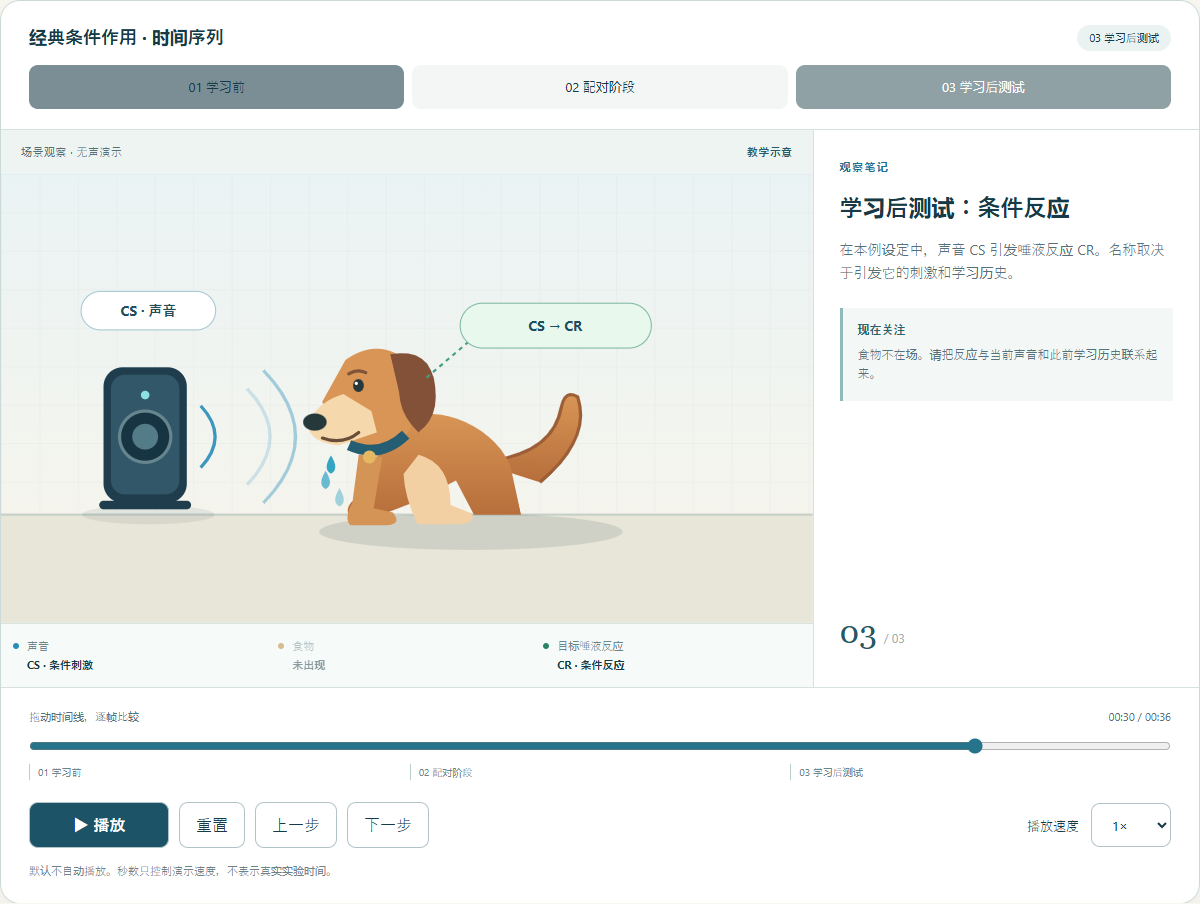
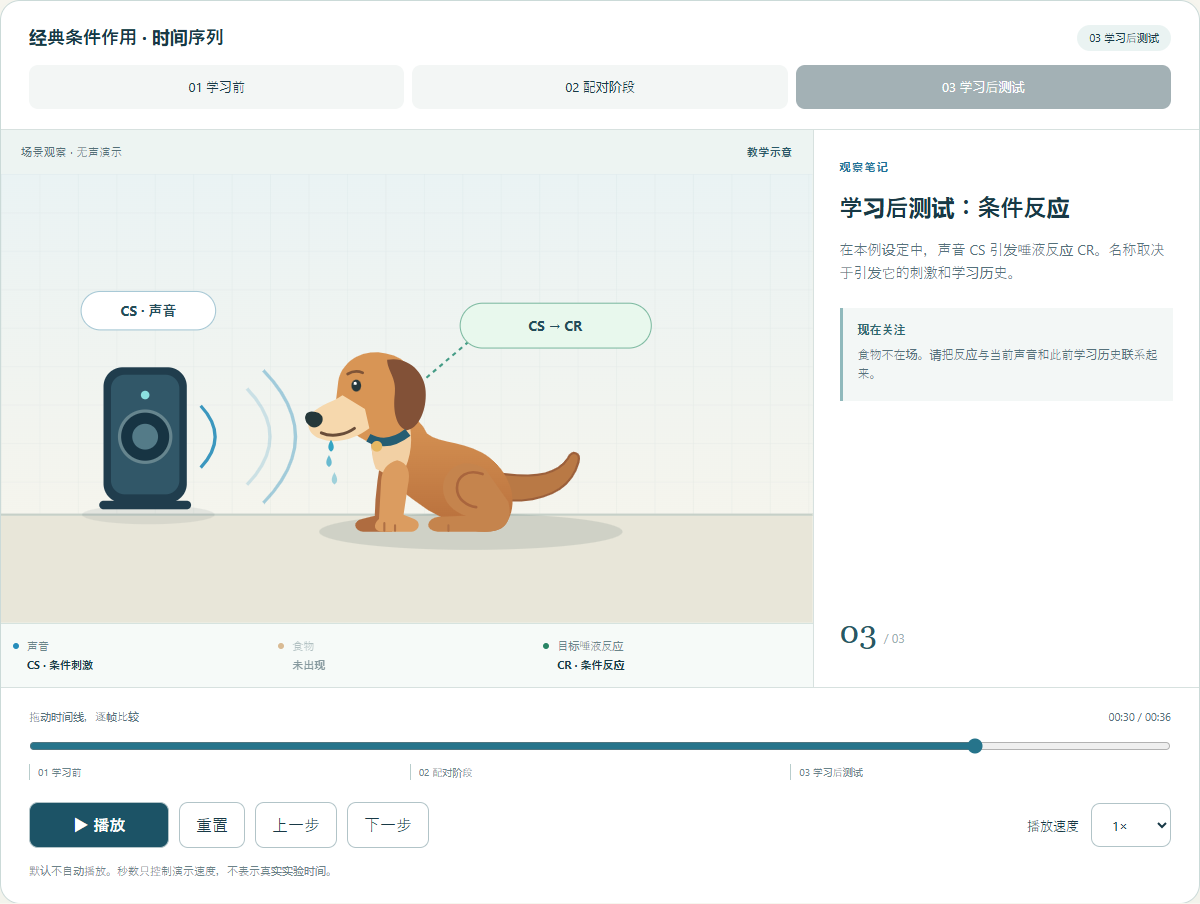
fix: redraw seated dog anatomy and anchor salivation to mouth

Changed region(s): [[0.2467, 0.3717, 0.4933, 0.5885], [0.0, 0.0619, 0.3392, 0.1239]]

diff --git a/examples/classical-conditioning/index.html b/examples/classical-conditioning/index.html
@@ -6,8 +6,30 @@
 <svg id="scene" viewBox="0 0 760 420" role="img" aria-labelledby="sceneTitle sceneDesc"><title id="sceneTitle">Classical conditioning scene</title><desc id="sceneDesc">Sound source, dog, food and salivation.</desc><defs><linearGradient id="wall" x2="0" y2="1"><stop stop-color="#eaf3f4"/><stop offset="1" stop-color="#f8f5eb"/></linearGradient><linearGradient id="coat" x2="0" y2="1"><stop stop-color="#d89555"/><stop offset="1" stop-color="#b76e3b"/></linearGradient><linearGradient id="bowlFill" x2="0" y2="1"><stop stop-color="#e6a652"/><stop offset="1" stop-color="#bc7630"/></linearGradient><pattern id="grid" width="36" height="36" patternUnits="userSpaceOnUse"><path d="M36 0H0V36" fill="none" stroke="#90a9ab" stroke-opacity=".12"/></pattern></defs><rect width="760" height="420" fill="url(#wall)"/><rect width="760" height="320" fill="url(#grid)"/><path d="M0 319H760V420H0Z" fill="#e8e6d9"/><path d="M0 319H760" stroke="#c6d0c8" stroke-width="2"/><ellipse cx="440" cy="335" rx="142" ry="17" fill="#213f4120"/><ellipse cx="138" cy="319" rx="62" ry="9" fill="#213f4116"/>
 <g id="soundSource"><rect x="96" y="181" width="78" height="127" rx="18" fill="#203d4d"/><rect x="103" y="188" width="64" height="112" rx="13" fill="#315768"/><circle cx="135" cy="246" r="24" fill="#173443" stroke="#66858e" stroke-width="3"/><circle id="speakerCone" cx="135" cy="246" r="12" fill="#547b88"/><circle id="speakerLight" cx="135" cy="207" r="4" fill="#8cacae"/><rect x="92" y="306" width="86" height="8" rx="4" fill="#203d4d"/></g>
 <g id="waves" fill="none" stroke="#278dba" stroke-width="3"><path id="wave0" d="M187 217Q214 246 187 275"/><path id="wave1" d="M207 201Q250 246 207 291"/><path id="wave2" d="M229 184Q289 246 229 308"/></g>
-<g id="dog"><path id="tail" d="M446 270Q516 263 523 216Q526 199 538 206Q552 245 505 287" fill="url(#coat)" stroke="#9c5e36" stroke-width="3"/><path d="M373 233C399 213 458 230 477 273L487 319H443L426 287L388 307L354 320H326C319 306 342 300 348 295L353 259Z" fill="url(#coat)"/><path d="M391 263Q421 271 421 310L441 318Q445 327 429 328H390Q378 303 377 281" fill="#f2d0a4"/><path d="M357 265L349 313L367 317Q376 328 361 329H327Q321 322 329 308L335 263" fill="#d49456"/><g id="dogHead"><path d="M323 174Q356 151 385 179L388 221Q385 252 351 263L315 245L301 213Z" fill="#d89555"/><path d="M365 169Q403 162 407 200Q410 229 391 242Q374 227 373 204Z" fill="#825137"/><path d="M321 206Q299 212 288 231Q285 250 316 254L352 242L347 222Z" fill="#f6d8ad"/><ellipse cx="294" cy="232" rx="11" ry="8" fill="#25383a"/><path d="M301 247Q320 254 335 242" fill="none" stroke="#694d39" stroke-width="3" stroke-linecap="round"/><ellipse id="eye" cx="335" cy="198" rx="5" ry="6" fill="#27383c"/><circle cx="333" cy="196" r="1.5" fill="white"/><path d="M326 187Q334 182 342 186" fill="none" stroke="#805437" stroke-width="3" stroke-linecap="round"/></g><path d="M326 254Q355 267 379 244" fill="none" stroke="#255d72" stroke-width="10"/><circle cx="345" cy="265" r="6" fill="#e6b862"/></g>
-<g id="droplets" fill="#279fc0"><path id="drop0" d="M304 260Q296 273 304 277Q312 273 304 260"/><path id="drop1" d="M317 261Q309 274 317 278Q325 274 317 261"/><path id="drop2" d="M309 260Q301 273 309 277Q317 273 309 260"/></g>
+<g id="dog">
+<!-- Sitting profile: tail and far foreleg behind a continuous neck/back silhouette. -->
+<path id="tail" d="M454 303C491 311 532 302 540 268C542 259 534 256 530 265C518 284 491 284 457 280Z" fill="#b97945" stroke="#9c603b" stroke-width="2"/>
+<path d="M359 251C354 273 350 302 350 320L338 323C329 325 330 334 339 335H366L375 267Z" fill="#af6c40"/>
+<path d="M354 226C371 217 391 225 399 243C411 253 438 250 458 266C478 282 486 309 472 329C463 338 444 336 429 330L400 315C382 302 363 290 351 271C344 258 346 238 354 226Z" fill="url(#coat)"/>
+<!-- The folded hind leg ends in a flat planted paw, separated from the chest. -->
+<path d="M454 277C435 263 414 275 414 294C414 308 425 317 435 320L410 321C398 322 396 334 409 335H455C473 335 480 322 475 307" fill="#c5844d"/>
+<path d="M451 281C437 276 427 283 427 294C427 305 437 311 445 312" fill="none" stroke="#a9653d" stroke-width="2.5" stroke-linecap="round"/>
+<!-- A narrow chest bib follows the neck, with one near foreleg below it. -->
+<path d="M353 237C363 242 376 240 383 236C386 253 383 272 372 287L351 276C345 261 347 247 353 237Z" fill="#f2d0a4"/>
+<path d="M371 268C381 270 384 279 381 292L377 319L387 323C394 326 392 335 383 335H358C349 335 348 328 354 323L356 287C357 277 361 271 371 268Z" fill="#db9c60"/>
+<path d="M359 327L359 334M369 329L369 334M419 329L419 334" stroke="#af7045" stroke-width="2" stroke-linecap="round"/>
+<g id="dogHead">
+<path d="M316 194C320 173 342 163 361 168C382 172 391 188 388 209L381 239C373 254 351 257 335 246L312 228Z" fill="#d89555"/>
+<path d="M320 207C310 214 300 215 291 224C285 231 287 243 298 247C314 254 333 247 345 238L341 220Z" fill="#f6d8ad"/>
+<path d="M291 222C283 222 283 232 290 236C296 239 303 233 301 227C300 224 296 222 291 222Z" fill="#25383a"/>
+<path d="M300 242C311 247 324 243 331 238" fill="none" stroke="#694d39" stroke-width="2.8" stroke-linecap="round"/>
+<path d="M362 174C382 170 399 187 398 207C398 224 390 239 380 240C370 237 367 222 369 206C371 191 362 184 362 174Z" fill="#825137"/>
+<ellipse id="eye" cx="333" cy="198" rx="4.5" ry="5.5" fill="#27383c"/><circle cx="332" cy="196" r="1.4" fill="white"/>
+<path d="M325 187Q332 183 339 186" fill="none" stroke="#805437" stroke-width="2.6" stroke-linecap="round"/>
+<g id="droplets" fill="#279fc0"><path id="drop0" d="M307 245Q302 253 307 256Q312 253 307 245"/><path id="drop1" d="M312 246Q307 254 312 257Q317 254 312 246"/><path id="drop2" d="M309 245Q304 253 309 256Q314 253 309 245"/></g>
+</g>
+<path d="M344 247Q362 257 381 242" fill="none" stroke="#255d72" stroke-width="8"/><circle cx="352" cy="255" r="5" fill="#e6b862"/>
+</g>
 <g id="foodObject"><ellipse cx="242" cy="335" rx="59" ry="9" fill="#213f4120"/><path d="M188 306H296L281 333H202Z" fill="url(#bowlFill)" stroke="#9c632f" stroke-width="2"/><ellipse cx="242" cy="305" rx="55" ry="12" fill="#f5d2a1" stroke="#b97b36" stroke-width="2"/><g fill="#93603d"><circle cx="211" cy="300" r="8"/><circle cx="228" cy="295" r="9"/><circle cx="245" cy="298" r="9"/><circle cx="263" cy="295" r="8"/><circle cx="278" cy="302" r="7"/></g><path d="M205 321H279" stroke="#f5cf8c" stroke-width="3" stroke-linecap="round"/></g>
 <g class="svg-label"><rect x="75" y="110" width="126" height="36" rx="18" fill="#fff" stroke="#a7c8d5"/><text id="cueSvgText" x="138" y="133" text-anchor="middle"/></g><g id="responseLabel" class="svg-label"><path d="M438 157L397 192" stroke="#459c86" stroke-width="2" stroke-dasharray="4 4"/><rect x="430" y="121" width="179" height="42" rx="21" fill="#e8f8ed" stroke="#7fbba2"/><text id="responseSvgText" x="519" y="147" text-anchor="middle"/></g><g id="foodLabel" class="svg-label"><rect x="185" y="365" width="120" height="32" rx="16" fill="#fff2d8" stroke="#d5b476"/><text id="foodSvgText" x="245" y="387" text-anchor="middle"/></g></svg>
 <div class="event-strip"><div id="cueEvent"><span class="event-dot blue"></span><span id="cueTitle"></span><strong id="cueTag"></strong></div><div id="foodEvent"><span class="event-dot amber"></span><span id="foodTitle"></span><strong id="foodTag"></strong></div><div id="responseEvent"><span class="event-dot green"></span><span id="responseTitle"></span><strong id="responseTag"></strong></div></div></div>

diff --git a/examples/classical-conditioning/demo.js b/examples/classical-conditioning/demo.js
@@ -84,8 +84,8 @@ function updateScene(){
  $('foodObject').setAttribute('opacity',enter);$('foodObject').setAttribute('transform',`translate(${-210*(1-enter)} 0)`);$('foodLabel').setAttribute('opacity',enter);
  $('responseLabel').setAttribute('opacity',f.response?1:0);$('droplets').setAttribute('opacity',f.response?1:0);
  for(let i=0;i<3;i++){const p=((time-f.responseStart)*.7+i*.34)%1;const v=(p+1)%1;$('drop'+i).setAttribute('transform',moving?`translate(0 ${v*45})`:`translate(0 ${i*13})`);$('drop'+i).setAttribute('opacity',moving?1-v*.8:1);}
- $('dogHead').setAttribute('transform',moving&&f.cue?`rotate(${Math.sin(time*2)*1.1} 350 244)`:'');
- $('tail').setAttribute('transform',moving&&f.response?`rotate(${Math.sin(time*4)*3} 449 276)`:'');
+ $('dogHead').setAttribute('transform',moving&&f.cue?`rotate(${Math.sin(time*2)*1.1} 365 243)`:'');
+ $('tail').setAttribute('transform',moving&&f.response?`rotate(${Math.sin(time*4)*3} 480 293)`:'');
  $('previous').disabled=time<=0;$('next').disabled=time>=36;
  $('scene').setAttribute('aria-label',t.steps[f.index].join('. '));
 }
